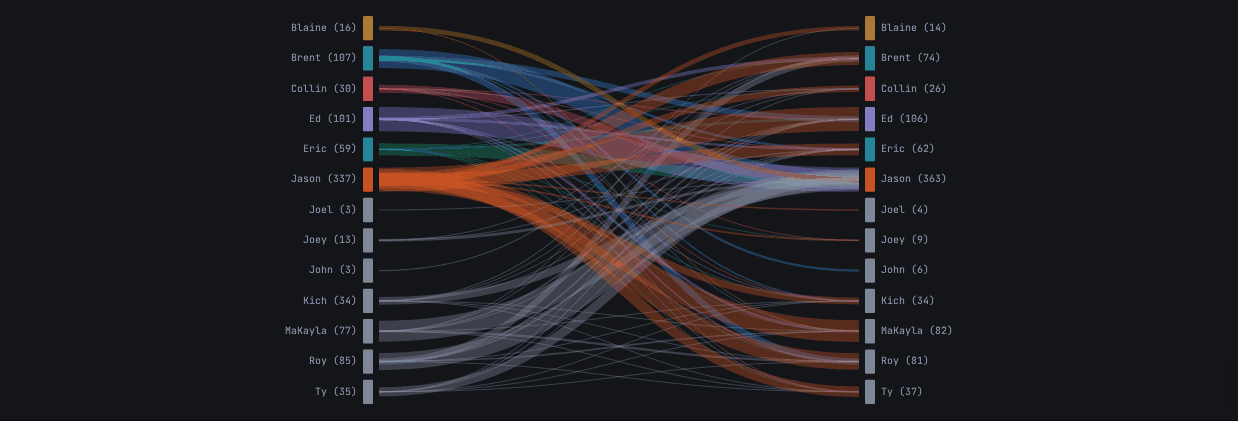
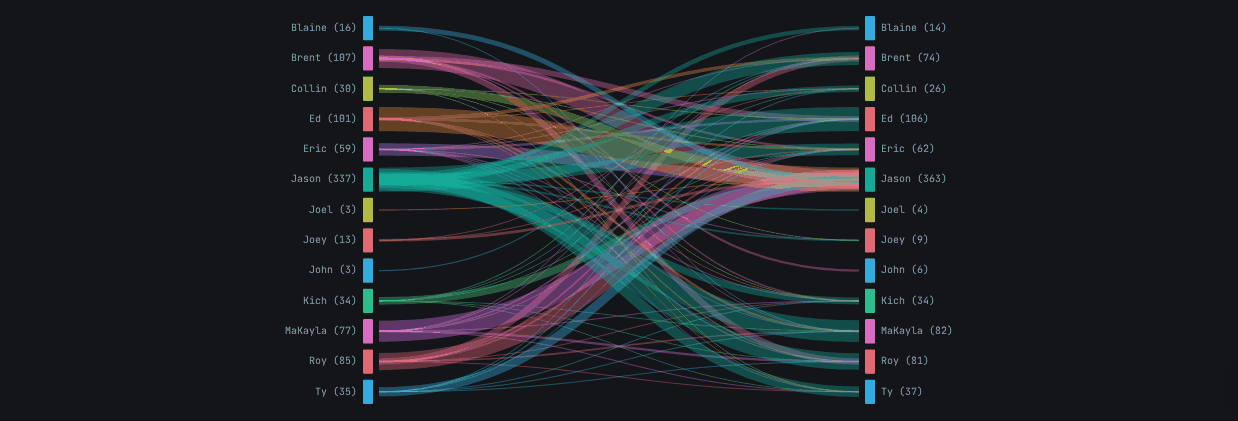
fix(ui): charts with more than six categories keep their previous colours
Owner Decision 14 approved a six-slot categorical palette only. Folding a
7th+ series to grey turned teams 7-13 of the 13-team /league trade flow
neutral, an information loss the decision does not authorize.

- categoricalColor(i, { count }): at most six categories -> --chart-1..6;
  more than six, or count unknown -> the previous 12-hue palette, cycled
  exactly as before (CHART_COLORS.legacyCategorical, pinned verbatim).
  The grey fold is opt-in (fold: true) and used by no shipped chart.
- TradeFlowSankey / AgeCurveOverlay / YearByYear / MultiTradeFlow pass
  their category count; the 8-group Hill scatter keeps its old palette.
- Opacity and text-on-series repairs are kept.
- trade-flow-sankey-palette.test.jsx pins 13 teams = pre-D14 colours and
  6 teams = the slots in order.
- Ledger + DESIGN-SYSTEM name the >6-category fold design as a follow-up.

Agent-OS-Receipt: cdca1dca8385f70c0989302dece8d1bd4ce4843c

Claude-Session: https://claude.ai/code/session_014i32om8NBcCJA9qgHBoHLi

Changed region(s): [[0.2763, 0.0309, 0.706, 0.9572]]

diff --git a/frontend/lib/chart-primitives.js b/frontend/lib/chart-primitives.js
@@ -38,11 +38,21 @@ export const CHART_COLORS = {
   // custom-property REFERENCES, not hex literals, so each chart resolves
   // the steps of the theme scope it renders in: the dark terminal slots on
   // dark routes, the light-surface steps inside .psi-editorial / light.
-  // The values live once, in app/tokens.css.  Never cycled: a 7th series
-  // folds to CATEGORICAL_OTHER (see categoricalColor).
+  // The values live once, in app/tokens.css.  Used for charts with AT MOST
+  // six categories (see categoricalColor).
   categorical: [
     "var(--chart-1)", "var(--chart-2)", "var(--chart-3)",
     "var(--chart-4)", "var(--chart-5)", "var(--chart-6)",
+  ],
+  // The PREVIOUS 12-hue palette, kept verbatim for charts with MORE than six
+  // categories (13-team trade flow, 8-group Hill scatter).  Owner Decision 14
+  // approved a six-slot palette only; a >6-category chart keeps its existing
+  // colours until a fold design is approved (named follow-up in
+  // docs/ui/UI_PARALLEL_LEDGER.md).  Do not extend or reuse for new charts.
+  legacyCategorical: [
+    "#38bdf8", "#f472b6", "#a3e635", "#fb923c", "#c084fc",
+    "#14b8a6", "#fbbf24", "#f87171", "#60a5fa", "#4ade80",
+    "#e879f9", "#fb7185",
   ],
   // Confidence-bucket palette — must match display-helpers.js::confBadgeClass.
   confidence: {
@@ -104,23 +114,33 @@ export function formatNumber(value, precision = 0) {
 }
 
 /**
- * Neutral ink for series past the sixth slot ("Other").  A semantic text
- * token, so it clears 4.5:1 on every surface of every theme scope; folded
- * series must carry their identity in a label, legend or tooltip.
+ * Neutral ink for a folded "Other" series.  Opt-in only (``fold: true``):
+ * no fold design for >6 categories is approved yet, so no shipped chart
+ * passes it.  A semantic text token, so it clears 4.5:1 on every surface.
  */
 export const CATEGORICAL_OTHER = "var(--text-tertiary)";
 
 /**
- * Pick a categorical color by slot index (0-based, fixed order).  Indices
- * 0-5 map to --chart-1..6; anything else folds to CATEGORICAL_OTHER rather
- * than cycling, because a cycled palette gives two different entities the
- * same colour (docs/DESIGN-SYSTEM.md, rule 14).
+ * Pick a categorical color by slot index (0-based, fixed order).
+ *
+ *   categoricalColor(i, { count })
+ *
+ * ``count`` is how many categories the chart draws.  At most six → the
+ * --chart-1..6 tokens.  More than six, or unknown (omitted) → the previous
+ * 12-hue palette, cycled exactly as before, so a >6-category chart does not
+ * change appearance until a fold design exists.  ``fold: true`` opts a
+ * caller into folding indices past the sixth slot to CATEGORICAL_OTHER.
  */
-export function categoricalColor(index) {
-  const n = CHART_COLORS.categorical.length;
-  return Number.isInteger(index) && index >= 0 && index < n
-    ? CHART_COLORS.categorical[index]
-    : CATEGORICAL_OTHER;
+export function categoricalColor(index, { count, fold = false } = {}) {
+  const slots = CHART_COLORS.categorical;
+  const valid = Number.isInteger(index) && index >= 0;
+  if (fold) return valid && index < slots.length ? slots[index] : CATEGORICAL_OTHER;
+  if (Number.isInteger(count) && count > 0 && count <= slots.length && valid && index < slots.length) {
+    return slots[index];
+  }
+  const legacy = CHART_COLORS.legacyCategorical;
+  const n = legacy.length;
+  return legacy[((index % n) + n) % n];
 }
 
 /**

diff --git a/frontend/__tests__/chart-primitives.test.js b/frontend/__tests__/chart-primitives.test.js
@@ -81,21 +81,41 @@ describe("formatNumber", () => {
   });
 });
 
+// The palette every chart used before Owner Decision 14.  Charts with more
+// than six categories must keep exactly these colours until a fold design
+// is approved, so this list is pinned verbatim.
+const PRE_D14_PALETTE = [
+  "#38bdf8", "#f472b6", "#a3e635", "#fb923c", "#c084fc",
+  "#14b8a6", "#fbbf24", "#f87171", "#60a5fa", "#4ade80",
+  "#e879f9", "#fb7185",
+];
+
 describe("categoricalColor", () => {
-  it("maps slots 0-5 onto the --chart-1..6 tokens in fixed order", () => {
+  it("maps a chart of at most six categories onto --chart-1..6 in fixed order", () => {
     expect(CHART_COLORS.categorical).toEqual([1, 2, 3, 4, 5, 6].map((i) => `var(--chart-${i})`));
-    for (let i = 0; i < 6; i++) expect(categoricalColor(i)).toBe(`var(--chart-${i + 1})`);
+    for (let n = 1; n <= 6; n++) {
+      for (let i = 0; i < n; i++) expect(categoricalColor(i, { count: n })).toBe(`var(--chart-${i + 1})`);
+    }
   });
 
-  it("folds a 7th+ series to the neutral Other ink instead of cycling", () => {
-    expect(categoricalColor(6)).toBe(CATEGORICAL_OTHER);
-    expect(categoricalColor(11)).toBe(CATEGORICAL_OTHER);
-    expect(categoricalColor(-1)).toBe(CATEGORICAL_OTHER);
-    expect(categoricalColor(1.5)).toBe(CATEGORICAL_OTHER);
-    expect(CHART_COLORS.categorical).not.toContain(CATEGORICAL_OTHER);
+  it("leaves a chart of more than six categories exactly as it was (13 teams)", () => {
+    expect(CHART_COLORS.legacyCategorical).toEqual(PRE_D14_PALETTE);
+    for (let i = 0; i < 13; i++) expect(categoricalColor(i, { count: 13 })).toBe(PRE_D14_PALETTE[i % 12]);
   });
 
-  it("carries no hex literal — values live once, in app/tokens.css", () => {
+  it("an unknown count keeps the previous palette (no silent repaint)", () => {
+    expect(categoricalColor(0)).toBe(PRE_D14_PALETTE[0]);
+    expect(categoricalColor(12)).toBe(PRE_D14_PALETTE[0]);
+    expect(categoricalColor(-1)).toBe(PRE_D14_PALETTE[11]);
+  });
+
+  it("folds to the neutral Other ink only when a caller opts in", () => {
+    expect(categoricalColor(2, { fold: true })).toBe("var(--chart-3)");
+    expect(categoricalColor(6, { fold: true })).toBe(CATEGORICAL_OTHER);
+    expect(categoricalColor(6, { count: 13 })).not.toBe(CATEGORICAL_OTHER);
+  });
+
+  it("the six slots carry no hex literal — values live once, in app/tokens.css", () => {
     for (const c of CHART_COLORS.categorical) expect(c).not.toMatch(/#[0-9a-f]{3,6}/i);
   });
 });

diff --git a/frontend/components/graphs/HillCurveExplorer.jsx b/frontend/components/graphs/HillCurveExplorer.jsx
@@ -26,7 +26,6 @@ import {
   CHART_COLORS,
   chartBox,
   categoricalColor,
-  CATEGORICAL_OTHER,
   linearScale,
   ticks,
   formatNumber,
@@ -99,20 +98,22 @@ function isRenderableCurve(c) {
   );
 }
 
-// Colour per position group, through the --chart-* slots in fixed order
-// (Owner Decision 14).  Eight groups exceed the six validated slots, so DB
-// and PICK fold to the neutral Other ink with OTHER — never a cycled or
-// generated hue; the legend, tooltip and group count carry their identity.
+// Colour palette per position group.  Keys match the ``assetClass`` /
+// coarse position taxonomy the frontend already uses so the Hill
+// chart legend matches the badge colours elsewhere on the board.
+// Eight groups exceed Owner Decision 14's six slots, so this chart keeps the
+// previous palette unchanged until a >6-category fold design is approved.
+const LEGACY = CHART_COLORS.legacyCategorical;
 const GROUP_COLORS = {
-  QB: categoricalColor(0),
-  WR: categoricalColor(1),
-  RB: categoricalColor(2),
-  TE: categoricalColor(3),
-  DL: categoricalColor(4),
-  LB: categoricalColor(5),
-  DB: CATEGORICAL_OTHER,
-  PICK: CATEGORICAL_OTHER,
-  OTHER: CATEGORICAL_OTHER,
+  QB: LEGACY[0],
+  RB: LEGACY[2],
+  WR: LEGACY[1],
+  TE: LEGACY[3],
+  DL: LEGACY[4],
+  LB: LEGACY[5],
+  DB: LEGACY[6],
+  PICK: LEGACY[7],
+  OTHER: CHART_COLORS.axisLabel,
 };
 
 function groupFor(pos) {
@@ -187,7 +188,7 @@ export default function HillCurveExplorer({
       const r = 1 + (xMax - 1) * (k / samplePoints);
       pts.push([x(r), y(hillValue(r, c))]);
     }
-    return { ...c, d: linePath(pts), color: categoricalColor(i) };
+    return { ...c, d: linePath(pts), color: i === 0 ? CHART_COLORS.accent : categoricalColor(i) };
   });
 
   // The rank past which the board stops resolving.  Read off the curves,
@@ -265,9 +266,8 @@ export default function HillCurveExplorer({
         ))}
 
         {/* Scatter first, so the curves sit visually on top of dots.
-            Dot opacity 0.9: at the old 0.55 every slot fell to ~2:1 on the
-            cream plot; 0.9 keeps all six >=3:1 on every surface (pinned in
-            chart-palette-contrast.test.js). */}
+            Dot opacity 0.9 (was 0.55): at 0.55 marks fell to ~2:1 against
+            the plot; 0.9 is the contrast repair, colours are unchanged. */}
         {groupKeys.map((g) => {
           const color = GROUP_COLORS[g] || CHART_COLORS.axisLabel;
           return (

diff --git a/frontend/__tests__/components/trade-flow-sankey-palette.test.jsx b/frontend/__tests__/components/trade-flow-sankey-palette.test.jsx
@@ -1,0 +1,47 @@
+// Owner Decision 14 approved a SIX-slot categorical palette.  The trade-flow
+// Sankey draws one node per team, so a 13-team league must render exactly
+// the colours it rendered before (no grey fold, no token repaint) until a
+// >6-category fold design is approved; a league of at most six teams takes
+// the --chart-1..6 slots in fixed order.
+import React from "react";
+import { describe, expect, it } from "vitest";
+import { render } from "@testing-library/react";
+import TradeFlowSankey from "@/components/graphs/TradeFlowSankey";
+
+const PRE_D14_PALETTE = [
+  "#38bdf8", "#f472b6", "#a3e635", "#fb923c", "#c084fc",
+  "#14b8a6", "#fbbf24", "#f87171", "#60a5fa", "#4ade80",
+  "#e879f9", "#fb7185",
+];
+
+function ringOfTrades(n) {
+  const ids = Array.from({ length: n }, (_, i) => `o${String(i).padStart(2, "0")}`);
+  return ids.map((id, i) => ({
+    sides: [
+      { ownerId: id, displayName: `Team ${i}`, receivedAssets: [{ kind: "player", playerName: `P${i}` }] },
+      { ownerId: ids[(i + 1) % n], displayName: `Team ${(i + 1) % n}`, receivedAssets: [{ kind: "player", playerName: `Q${i}` }] },
+    ],
+  }));
+}
+
+function nodeFills(container) {
+  return [...container.querySelectorAll('rect[width="10"]')].map((r) => r.getAttribute("fill"));
+}
+
+describe("TradeFlowSankey node colours", () => {
+  it("13 teams: identical to the pre-D14 palette, cycled as before", () => {
+    const { container } = render(<TradeFlowSankey trades={ringOfTrades(13)} />);
+    const fills = nodeFills(container);
+    expect(fills).toHaveLength(26); // a source and a target node per team
+    const expected = Array.from({ length: 13 }, (_, i) => PRE_D14_PALETTE[i % 12]);
+    expect(fills.slice(0, 13)).toEqual(expected);
+    expect(fills.slice(13)).toEqual(expected);
+    expect(fills.some((f) => f.includes("--text-tertiary"))).toBe(false);
+  });
+
+  it("6 teams: the --chart-1..6 slots in fixed order", () => {
+    const { container } = render(<TradeFlowSankey trades={ringOfTrades(6)} />);
+    const expected = [1, 2, 3, 4, 5, 6].map((i) => `var(--chart-${i})`);
+    expect(nodeFills(container).slice(0, 6)).toEqual(expected);
+  });
+});

diff --git a/frontend/components/graphs/MultiTradeFlow.jsx b/frontend/components/graphs/MultiTradeFlow.jsx
@@ -30,8 +30,8 @@ const VIEWBOX_HEIGHT_PER_SIDE = NODE_HEIGHT + NODE_GAP;
 // MAX_SIDES is 5, so sides never fold; every node is labelled. Node text
 // sits on a light wash in --text ink, and link labels carry a surface halo,
 // so no text is ever drawn directly on a series colour.
-function colourFor(idx) {
-  return categoricalColor(idx);
+function colourFor(idx, count) {
+  return categoricalColor(idx, { count });
 }
 
 export default function MultiTradeFlow({ sides, sideFlowAssets, valueMode, settings }) {
@@ -126,7 +126,7 @@ export default function MultiTradeFlow({ sides, sideFlowAssets, valueMode, setti
               <g key={`flow-${srcIdx}-${dstIdx}`}>
                 <path
                   d={linkPath(srcIdx, dstIdx)}
-                  stroke={colourFor(srcIdx)}
+                  stroke={colourFor(srcIdx, sides.length)}
                   strokeWidth={stroke}
                   strokeOpacity={0.9}
                   fill="none"
@@ -167,9 +167,9 @@ export default function MultiTradeFlow({ sides, sideFlowAssets, valueMode, setti
               width={NODE_WIDTH}
               height={NODE_HEIGHT}
               rx={6}
-              fill={colourFor(i)}
+              fill={colourFor(i, sides.length)}
               fillOpacity={0.14}
-              stroke={colourFor(i)}
+              stroke={colourFor(i, sides.length)}
               strokeWidth={2}
             />
             <text
@@ -191,9 +191,9 @@ export default function MultiTradeFlow({ sides, sideFlowAssets, valueMode, setti
               width={NODE_WIDTH}
               height={NODE_HEIGHT}
               rx={6}
-              fill={colourFor(i)}
+              fill={colourFor(i, sides.length)}
               fillOpacity={0.14}
-              stroke={colourFor(i)}
+              stroke={colourFor(i, sides.length)}
               strokeWidth={2}
             />
             <text

diff --git a/frontend/components/graphs/TradeFlowSankey.jsx b/frontend/components/graphs/TradeFlowSankey.jsx
@@ -116,7 +116,7 @@ export default function TradeFlowSankey({
       flowPaths.push({
         d,
         w: Math.max(1, fw),
-        color: categoricalColor(si),
+        color: categoricalColor(si, { count: owners.length }),
         label: `${ownerNames.get(src)} → ${ownerNames.get(dst)}: ${formatNumber(n, n < 1 ? 1 : 0)} assets`,
       });
     }
@@ -156,7 +156,7 @@ export default function TradeFlowSankey({
                 y={y0}
                 width={10}
                 height={nodeHeight}
-                fill={categoricalColor(i)}
+                fill={categoricalColor(i, { count: owners.length })}
                 fillOpacity={0.9}
                 rx={1}
               />
@@ -185,7 +185,7 @@ export default function TradeFlowSankey({
                 y={y0}
                 width={10}
                 height={nodeHeight}
-                fill={categoricalColor(i)}
+                fill={categoricalColor(i, { count: owners.length })}
                 fillOpacity={0.9}
                 rx={1}
               />

diff --git a/frontend/app/league-comparison/sections/YearByYear.jsx b/frontend/app/league-comparison/sections/YearByYear.jsx
@@ -180,7 +180,7 @@ function ShareTrendChart({ bySeason }) {
             ))}
             {/* Series lines + markers */}
             {series.map((s, idx) => {
-              const color = categoricalColor(idx);
+              const color = categoricalColor(idx, { count: series.length });
               const pts = s.points.map((v, i) => [xScale(i), yScale(v)]);
               return (
                 <g key={s.pos}>
@@ -203,7 +203,7 @@ function ShareTrendChart({ bySeason }) {
           <g transform={`translate(${margin.left}, ${height - 4})`}>
             {series.map((s, idx) => (
               <g key={s.pos} transform={`translate(${idx * 56}, -18)`}>
-                <rect x={0} y={-7} width={10} height={3} fill={categoricalColor(idx)} />
+                <rect x={0} y={-7} width={10} height={3} fill={categoricalColor(idx, { count: series.length })} />
                 <text x={14} y={-4} fontSize={10} fill={CHART_COLORS.axisLabel}>{s.pos}</text>
               </g>
             ))}

diff --git a/frontend/app/design/DesignGallery.jsx b/frontend/app/design/DesignGallery.jsx
@@ -169,7 +169,7 @@ export default function DesignGallery() {
           </div>
           <div>
             <p className={styles.demoLabel}>
-              Chart series slots — fixed order, never cycled; a 7th series folds to Other
+              Chart series slots — fixed order, never cycled; for charts of up to six categories
             </p>
             <div className={`${styles.grid} ${styles.cols3}`}>
               {CHARTS.map((i) => (

diff --git a/frontend/components/graphs/AgeCurveOverlay.jsx b/frontend/components/graphs/AgeCurveOverlay.jsx
@@ -73,7 +73,7 @@ export default function AgeCurveOverlay({
 }) {
   const curvesByPos = positions.map((pos, i) => ({
     pos,
-    color: categoricalColor(i),
+    color: categoricalColor(i, { count: positions.length }),
     curve: ageCurveFor(boardRows, pos, ageLo, ageHi),
     roster: (rosterRows || []).filter(
       (r) =>

diff --git a/docs/WORK_CLAIMS.md b/docs/WORK_CLAIMS.md
@@ -51,7 +51,7 @@ row `done` in your last commit.
 
 | Claim | Paths | Defect ids | Branch | Status |
 |---|---|---|---|---|
-| **Owner Decision 14 — categorical chart palette on PSI cream surfaces (closes the #1428 palette question; Lane 6 / C8-U2/U3).** The six approved light-surface steps (`#986400 #2264af #ac386a #6752b6 #087650 #aa3c17`) land in the canonical token owner (`.psi-editorial` + light scaffold; dark `:root` slots unchanged as the same-hue dark variants). `chart-primitives.js` categorical palette now references `--chart-1..6` (fold, never cycle); Hill-curve and multi-team-flow categorical colours routed through it; /design chart gate retired. Contrast + CVD proof in `chart-palette-contrast.test.js`. Movement up/down tokens untouched. Stacked on #1809. Agent-OS-Receipt: cdca1dca8385f70c0989302dece8d1bd4ce4843c | `frontend/app/tokens.css` (chart slots in light + `.psi-editorial` only), `frontend/components/ds/token-contract.js`, `frontend/app/ds.css` (Meter fill display fix only), `frontend/lib/chart-primitives.js`, `frontend/components/graphs/{HillCurveExplorer,MultiTradeFlow}.jsx`, `frontend/app/design/DesignGallery.jsx`, `frontend/__tests__/{chart-primitives.test.js,components/ds/chart-palette-contrast.test.js,components/ds/psi-gallery.test.jsx}`, `tests/e2e/specs/psi-gallery.spec.js`, `docs/DESIGN-SYSTEM.md` (chart colour method), `docs/ui/UI_PARALLEL_LEDGER.md` (`/design` row + dispatch note), `docs/ui/PSI_DESIGN_REFERENCE_HANDOFF.md`, `docs/ui/evidence/D14_CHART_PALETTE_2026-10-18/` | #1428, OD-14 | `claude/chart-palette-d14` | open — PR against `main`, built on the merged #1809 tree (`3bc9cbfcec`); not merged |
+| **Owner Decision 14 — categorical chart palette on PSI cream surfaces (closes the #1428 palette question; Lane 6 / C8-U2/U3).** The six approved light-surface steps (`#986400 #2264af #ac386a #6752b6 #087650 #aa3c17`) land in the canonical token owner (`.psi-editorial` + light scaffold; dark `:root` slots unchanged as the same-hue dark variants). `chart-primitives.js` categorical palette references `--chart-1..6` for charts of at most six categories; charts with more than six keep their previous colours (fold design is a named follow-up); multi-team-flow colours routed through it; /design chart gate retired. Contrast + CVD proof in `chart-palette-contrast.test.js`. Movement up/down tokens untouched. Stacked on #1809. Agent-OS-Receipt: cdca1dca8385f70c0989302dece8d1bd4ce4843c | `frontend/app/tokens.css` (chart slots in light + `.psi-editorial` only), `frontend/components/ds/token-contract.js`, `frontend/app/ds.css` (Meter fill display fix only), `frontend/lib/chart-primitives.js`, `frontend/components/graphs/{HillCurveExplorer,MultiTradeFlow}.jsx`, `frontend/app/design/DesignGallery.jsx`, `frontend/__tests__/{chart-primitives.test.js,components/ds/chart-palette-contrast.test.js,components/ds/psi-gallery.test.jsx}`, `tests/e2e/specs/psi-gallery.spec.js`, `docs/DESIGN-SYSTEM.md` (chart colour method), `docs/ui/UI_PARALLEL_LEDGER.md` (`/design` row + dispatch note), `docs/ui/PSI_DESIGN_REFERENCE_HANDOFF.md`, `docs/ui/evidence/D14_CHART_PALETTE_2026-10-18/` | #1428, OD-14 | `claude/chart-palette-d14` | open — PR against `main`, built on the merged #1809 tree (`3bc9cbfcec`); not merged |
 | **Manager Intelligence Batch D — trade tool integration (C6-MGR-02; owner addendum 2026-10-17).** From an opponent in the league scouting view (or a searched manager, via `?manager=` from their Leagues list) the user picks roster assets and opens the Trade Calculator, Analyze Trade or the Package Builder pre-filled. Seeds go through the existing `trade-share` format (unchanged) and a new minimal `/arbitrage?tool=builder` restore owned by `lib/package-builder.js`; canonical board values only, the ACTIVE package-model receipt carried into the link; unresolved assets listed, never seeded or priced at 0; league-scoped tools and owned-pick canonical ids only for the registry league whose rosters are loaded (manager-scout gate), the generic calculator seed elsewhere. No `/trade` files touched. Agent-OS-Receipt: cdca1dca8385f70c0989302dece8d1bd4ce4843c | `src/intel/manager_league.py` (`boardName`, `tradeTools`), `frontend/lib/manager-trade-tools.js`, `frontend/lib/package-builder.js`, `frontend/lib/manager-intel.js`, `frontend/app/managers/*`, `frontend/app/arbitrage/page.jsx`, `frontend/app/arbitrage/PackageBuilderView.jsx`, records, tests | C6-MGR-02 | `claude/manager-intel-d` | done — #1797 merged via release train 7 #1803 (`24e218205e`, 2026-10-18) |
 | **IDP source rehabilitation — evaluation of the PENDING rows (owner master package 2026-10-17).** Evaluation, not activation: status refresh of the owner-intake rows; DLF IDP incremental evidence refreshed and decomposed (own vote vs re-activated outlier filter); IDP source independence + normalization review (IDP Trade Calculator ≡ IDP Show IDP-only order; deep-tail value-direct vs rank→Hill offset); IDP three-voter outlier challenger PREREGISTERED (not implemented); DLF Values gate re-run; package-model residuals on committed own-league trades. No `_RANKING_SOURCES` weight, vote hold, canonical value or Hill constant changes; proposed patches only. Agent-OS-Receipt: `cdca1dca8385f70c0989302dece8d1bd4ce4843c` | `docs/sources/IDP_REHABILITATION_EVALUATION_2026-10-18.md` (new), `docs/sources/evidence/IDP_REHAB_2026-10-18/**` (new), `docs/valuation/evidence/idp-outlier-n3-2026-10-18/**` (new), `scripts/idp_rehab_eval.py` (new, read-only), `config/sources/rehabilitation.json` (status fields only), `docs/sources/DLF_IDP_REEVALUATION_2026-10-17.md` (correction pointer), `docs/OWNER_REQUESTED_TODO.md`, `docs/WORK_CLAIMS.md` | — | `claude/idp-rehab-eval` | done — #1798 merged via release train 7 #1803 (`24e218205e`, 2026-10-18); still BLOCKED (owner/box): Signals IDP dependence and the production trade archive; the 5 owner decisions in the PR remain open |
 | **P1 owner fix — League Draft Capital shows every Sleeper draft year (owner directive 2026-10-17).** `/league?tab=draft-capital` for dynasty_main offered only "All Years, 2027": the default league is served by the workbook builder, which holds ONE class. The league's other owned classes (`league_draft_years.owned_pick_seasons`) now come from the canonical fold (`build_pick_ownership`) over the observed `/traded_picks` and canonical generic-grade values in `additionalClassPicks` (new owner `src/api/draft_capital_classes.py`); per-year views, `allYearsTeamTotals`, acquired / traded-away counts, slot status (known / projected / unknown) and `budgetPolicy`. `picks` / `teamTotals` / `coveredPickYears` unchanged (auction budgets). Fallback generates the same owned seasons and prices stand-in slots at the generic grade. Named follow-up closed: the workbook path's failed `/traded_picks` now refuses the board (was `traded = []`). OWNER DECISION 2026-10-18 applied: "$1,200 per draft class" for `dynasty_main` (`budgetPolicy` `owner_confirmed`). OWNER SCOPE CORRECTION 2026-10-18 applied: `dynasty_new` is out of scope — the Sleeper-derived fallback, its route call and its tests are restored to `main` (no budget, valuation or shape change for it). Owner addendum 2026-10-18 applied: exact $1,200.00 per class (`allocate_class_budget`, largest-remainder) and per-class `curveMethod` (`workbook_rookie_auction` / `interim_generic_market`, UI "provisional estimate — final rookie-auction curve pending"). One frontend budget reader (`draft-capital-budgets.js`): /draft, auction room, /league simulator and /trade stack render unavailable budgets, never $0. OPEN follow-ups (not in this PR): the final spreadsheet-driven rookie-auction curve for every class (separate Draft Valuation workstream); display-name team joins (workbook first-name bridge / `teamTotals` keyed by name); draft-order rule for projected slots = reverse regular-season record, then LOWER Points For (`src/public_league/draft_order.py`) as the basis of every projected slot on this board. Agent-OS-Receipt: `cdca1dca8385f70c0989302dece8d1bd4ce4843c` | `server.py` (`_fetch_draft_capital` only), `src/api/draft_capital_classes.py` (new), `src/api/draft_capital_years.py`, `frontend/app/league/sections/draft-capital.jsx`, `frontend/lib/draft-capital-years.js`, `tests/api/test_draft_capital_all_years.py` (new), `tests/api/test_draft_capital_years.py`, `frontend/__tests__/components/league-draft-capital-all-years.test.jsx` (new), `CLAUDE.md`, `docs/OWNER_REQUESTED_TODO.md`, `docs/WORK_CLAIMS.md`, `frontend/lib/draft-capital-budgets.js` (new), `frontend/lib/pick-stack.js`, `frontend/app/draft/page.jsx`, `frontend/app/trade/page.jsx`, `frontend/app/trade/trade-sections.jsx`, `src/auction/sources.py`, `frontend/__tests__/draft-capital-budgets.test.js` (new), `frontend/__tests__/components/trade-stack-budgets-unavailable.test.jsx` (new) | DRAFTCAP-2029-INVENTORY | `claude/draft-capital-all-years` | done — #1785 merged to main via release train 6 #1794 (`c290dea0a8`, merged 2026-10-18); verified on `origin/main` by the 2026-10-18 housekeeping pass. The OPEN follow-ups named in the claim text are separate later work, not this claim |

diff --git a/docs/ui/evidence/D14_CHART_PALETTE_2026-10-18/README.md b/docs/ui/evidence/D14_CHART_PALETTE_2026-10-18/README.md
@@ -12,7 +12,7 @@ serving the committed snapshot. This is **local evidence, not production proof**
 | `design-small-charts-mobile.png` | 375x812 | cream | same, phone layout |
 | `design-chart-slots-desktop.png` | 1440x900 | cream | the six `--chart-*` swatches in order |
 | `design-chart-slots-mobile.png` | 375x812 | cream | same, phone layout |
-| `league-trade-flow-dark-desktop.png` | 1440x900 | dark terminal | `/league?tab=activity` trade-flow Sankey on the dark slots; 13 teams, so teams 7-13 fold to the neutral Other ink and are named by their node labels |
+| `league-trade-flow-dark-desktop.png` | 1440x900 | dark terminal | `/league?tab=activity` trade-flow Sankey: 13 teams, so per the >6-category rule it keeps its previous 12-hue colours unchanged (no grey fold) |
 | `league-trade-flow-dark-mobile.png` | 375x812 | dark terminal | same, phone layout |
 
 The dark-route PNGs are palette-reduced to 128 colours to keep them small.
@@ -30,7 +30,9 @@ Passing on desktop-1366: `/design`, `/rankings`, `/trade`, `/rosters`, `/league`
 `/players/[playerId]`. Passing on mobile-chromium: `/rankings`, `/trade`, `/rosters` and
 `/league`. `tests/e2e/specs/psi-gallery.spec.js` also passes on both projects. In total,
 14 tests passed. After the Meter fix, `/design`, `/league` and the gallery spec were run
-again: 7 tests passed.
+again: 7 tests passed. After the >6-category change (charts with more than six categories keep
+their previous colours), `/design`, `/rankings`, `/league` and the gallery spec
+were run on both projects: 9 tests passed.
 
 axe does not certify SVG chart contrast. The computed proof is
 `frontend/__tests__/components/ds/chart-palette-contrast.test.js`.

diff --git a/docs/DESIGN-SYSTEM.md b/docs/DESIGN-SYSTEM.md
@@ -130,14 +130,22 @@ all-pairs safe (scatter); all six are **not** (blue↔violet collapses for
 deutans in both scopes) — a six-group scatter must label its points.
 
 Rules: assign slots in fixed order, never cycle, never repaint survivors
-when a filter changes series count; a 7th+ series folds to "Other", drawn in
-`--text-tertiary` (`chart-primitives.js::CATEGORICAL_OTHER`). Series colours
+when a filter changes series count. A chart with **at most six** categories
+takes the slots (`categoricalColor(i, { count })`). A chart with **more than
+six** (the 13-team trade flow, the 8-group Hill scatter) keeps its previous
+12-hue palette (`CHART_COLORS.legacyCategorical`) unchanged: Owner Decision 14
+approved six slots only, and folding into a grey "Other"
+(`CATEGORICAL_OTHER`, opt-in via `fold: true`, used by no shipped chart)
+loses information. **Named follow-up: the >6-category fold/highlight
+design** (also the `/league` luck and ROS-power lines and
+`PlayerRankHistoryChart`, which keep their local palettes). Series colours
 mark; they never colour text — text wears `--text-*` (a series wash with
 `--text` ink, or a surface halo, where a label sits on a mark). Status colors
 are never series colors; the movement pair (`--data-up` blue /
 `--data-down` orange) is a separate semantic and is never a series slot.
 `lib/chart-primitives.js`'s `CHART_COLORS.categorical` is the six token
-references, so every chart composed from it resolves the scope it renders in.
+references, so every ≤6-category chart composed from it resolves the scope it
+renders in.
 
 ### Typography
 
